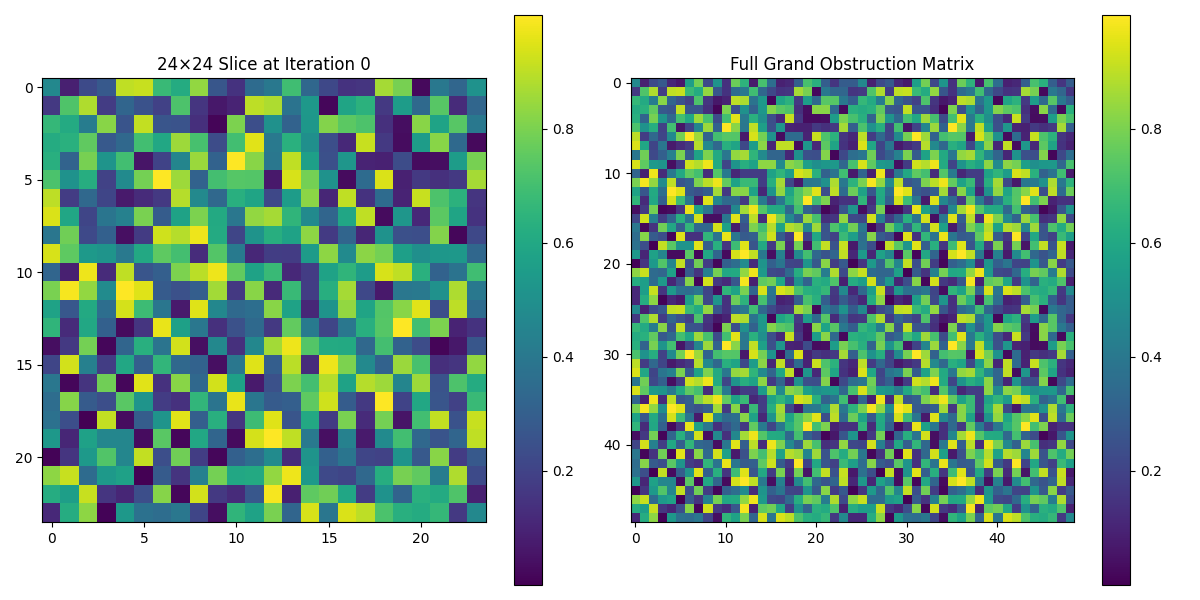
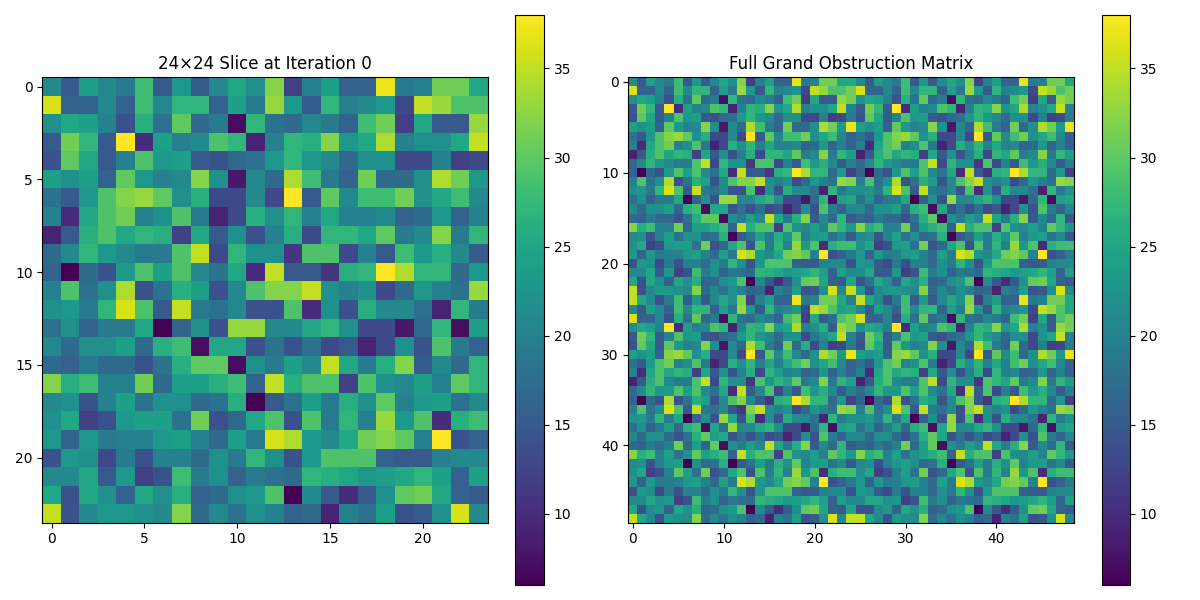
Discrete index vals

diff --git a/obstruction_and_relic_matrix.py b/obstruction_and_relic_matrix.py
@@ -6,18 +6,24 @@ grand_obstruction_matrix_size = 24 + (500 // map_iteration_period) # check if //
 obstruction_direction = 1 # Range {-1,1}, with 1 meaning the little matrix moves northeast, and -1 meaning it moves southwest
 
 class SymmetricMatrix:
-  def __init__(self, size):
+  def __init__(self, size, node_info_size):
     self.size = size
-    self.data = np.zeros((size, size))
+    self.node_info_size = node_info_size
+    self.data = np.zeros((size, size), dtype=object)
+    
+    for i in range(size):
+      for j in range(size):
+        self.data[i, j] = np.zeros(self.node_info_size)
+
     
   def get_entangled_index(self, i, j):
     return self.size - j - 1, self.size - i - 1
   
-  def set_index_value(self, index, value):
+  def set_index_value(self, index, discrete_values):
     i, j = index
-    self.data[i, j] = value
+    self.data[i, j] = np.array(discrete_values)
     anti_i, anti_j = self.get_entangled_index(i, j)
-    self.data[anti_i, anti_j] = value
+    self.data[anti_i, anti_j] = np.array(discrete_values)
   
   def get_index_value(self, index):
     return self.data[index]
@@ -25,11 +31,18 @@ class SymmetricMatrix:
 
 ###
 
+class RelicMatrix(SymmetricMatrix):
+  def __init__(self):
+    super().__init__(size=24, node_info_size=1)
 
 class GrandObstructionMatrix():
-  def __init__(self, size):
+  def __init__(self, size, node_info_size=5):
     self.size = size
-    self.data = np.zeros((size, size))
+    self.node_info_size = node_info_size
+    self.data = np.zeros((size, size), dtype=object)
+    for i in range(size):
+      for j in range(size):
+        self.data[i, j] = np.zeros(self.node_info_size)  
 
   def get_entangled_iteration_index(self, iteration_i, iteration_j):
     return 24 - iteration_j - 1, 24 - iteration_i - 1
@@ -49,11 +62,11 @@ class GrandObstructionMatrix():
     
     return list_of_indices
     
-  def safe_update(self, i, j, value):
-      if 0 <= i < self.size and 0 <= j < self.size:
-          self.data[i, j] = value
+  def safe_update(self, i, j, discrete_values):
+    if 0 <= i < self.size and 0 <= j < self.size:
+      self.data[i, j] = np.array(discrete_values)
 
-  def set_index_value(self, map_iteration_period, time_iteration, iteration_index, value):
+  def set_index_value(self, map_iteration_period, time_iteration, iteration_index, discrete_values):
     obstruction_movement_step = time_iteration // map_iteration_period  # integer division
     iteration_i, iteration_j = iteration_index
 
@@ -61,38 +74,34 @@ class GrandObstructionMatrix():
     entangled_tile_indices = self.get_entangled_tiles_iteration_index(iteration_i, iteration_j)
 
     if obstruction_direction == 1:
-        # Primary tile update with modulo
-        target_i = (self.size - 24 - obstruction_movement_step + iteration_i) % self.size
-        target_j = (obstruction_movement_step + iteration_j) % self.size
-        self.safe_update(target_i, target_j, value)
+      target_i = (self.size - 24 - obstruction_movement_step + iteration_i) % self.size
+      target_j = (obstruction_movement_step + iteration_j) % self.size
+      self.safe_update(target_i, target_j, discrete_values)
+      
+      target_i = (self.size - 24 - obstruction_movement_step + anti_iteration_i) % self.size
+      target_j = (obstruction_movement_step + anti_iteration_j) % self.size
+      self.safe_update(target_i, target_j, discrete_values)
         
-        # Update the symmetric partner of the primary tile
-        target_i = (self.size - 24 - obstruction_movement_step + anti_iteration_i) % self.size
-        target_j = (obstruction_movement_step + anti_iteration_j) % self.size
-        self.safe_update(target_i, target_j, value)
-        
-        # Update each of the entangled tiles
-        for tile_i, tile_j in entangled_tile_indices:
-            tile_anti_i, tile_anti_j = self.get_entangled_iteration_index(tile_i, tile_j)
-            self.safe_update((self.size - 24 - obstruction_movement_step + tile_i) % self.size,
-                             (obstruction_movement_step + tile_j) % self.size, value)
-            self.safe_update((self.size - 24 - obstruction_movement_step + tile_anti_i) % self.size,
-                             (obstruction_movement_step + tile_anti_j) % self.size, value)
+      for tile_i, tile_j in entangled_tile_indices:
+        tile_anti_i, tile_anti_j = self.get_entangled_iteration_index(tile_i, tile_j)
+        self.safe_update((self.size - 24 - obstruction_movement_step + tile_i) % self.size,
+                          (obstruction_movement_step + tile_j) % self.size, discrete_values)
+        self.safe_update((self.size - 24 - obstruction_movement_step + tile_anti_i) % self.size,
+                          (obstruction_movement_step + tile_anti_j) % self.size, discrete_values)
     else:
-        # Similar logic for obstruction_direction == -1, applying modulo to both row and col.
-        self.safe_update((obstruction_movement_step + iteration_i) % self.size,
-                         (self.size - 24 - obstruction_movement_step + iteration_j) % self.size, value)
-        self.safe_update((obstruction_movement_step + anti_iteration_i) % self.size,
-                         (self.size - 24 - obstruction_movement_step + anti_iteration_j) % self.size, value)
+      self.safe_update((obstruction_movement_step + iteration_i) % self.size,
+                        (self.size - 24 - obstruction_movement_step + iteration_j) % self.size, discrete_values)
+      self.safe_update((obstruction_movement_step + anti_iteration_i) % self.size,
+                        (self.size - 24 - obstruction_movement_step + anti_iteration_j) % self.size, discrete_values)
         
-        for tile_i, tile_j in entangled_tile_indices:
-            tile_anti_i, tile_anti_j = self.get_entangled_iteration_index(tile_i, tile_j)
-            self.safe_update((obstruction_movement_step + tile_i) % self.size,
-                             (self.size - 24 - obstruction_movement_step + tile_j) % self.size, value)
-            self.safe_update((obstruction_movement_step + tile_anti_i) % self.size,
-                             (self.size - 24 - obstruction_movement_step + tile_anti_j) % self.size, value)
-
-
+      for tile_i, tile_j in entangled_tile_indices:
+        tile_anti_i, tile_anti_j = self.get_entangled_iteration_index(tile_i, tile_j)
+        self.safe_update((obstruction_movement_step + tile_i) % self.size,
+                          (self.size - 24 - obstruction_movement_step + tile_j) % self.size, discrete_values)
+        self.safe_update((obstruction_movement_step + tile_anti_i) % self.size,
+                          (self.size - 24 - obstruction_movement_step + tile_anti_j) % self.size, discrete_values)
+    
+  
   def get_index_value(self, index):
       i, j = index
       
@@ -124,14 +133,18 @@ grand_obstruction_matrix = GrandObstructionMatrix(grand_obstruction_matrix_size)
 for time_iteration in range(0, 100, 5):  # Simulating 20 steps
     for i in range(24):  # Simulate a 24x24 section
         for j in range(24):
-            value = np.random.rand()  # Random value for demonstration
-            grand_obstruction_matrix.set_index_value(map_iteration_period, time_iteration, (i, j), value)
+            # Generate random discrete values
+            discrete_values = np.random.randint(0, 10, size=grand_obstruction_matrix.node_info_size)  # Random integers for discrete values
+            grand_obstruction_matrix.set_index_value(map_iteration_period, time_iteration, (i, j), discrete_values)
 
-# Extract the 24×24 slice of the obstruction matrix at iteration 95
-obstruction_matrix = grand_obstruction_matrix.get_obstruction_matrix_iteration(20, 0)
+# Extract the 24×24 slice of the obstruction matrix at iteration 0 (start of the simulation)
+obstruction_matrix = grand_obstruction_matrix.get_obstruction_matrix_iteration(map_iteration_period, 0)
 
-# Extract the full grand obstruction matrix
-full_matrix = grand_obstruction_matrix.data  # The entire matrix
+# Convert the matrix to a numeric form for visualization (sum of the discrete values for each element)
+numeric_obstruction_matrix = np.array([[np.sum(grand_obstruction_matrix.get_index_value((i, j))) for j in range(24)] for i in range(24)])
+
+# Extract the full grand obstruction matrix (convert similarly)
+full_matrix = np.array([[np.sum(grand_obstruction_matrix.get_index_value((i, j))) for j in range(grand_obstruction_matrix.size)] for i in range(grand_obstruction_matrix.size)])
 
 # Set up side-by-side plots
 fig, axes = plt.subplots(1, 2, figsize=(12, 6))
@@ -140,7 +153,7 @@ fig, axes = plt.subplots(1, 2, figsize=(12, 6))
 vmin, vmax = np.min(full_matrix), np.max(full_matrix)
 
 # Plot the 24x24 slice
-im1 = axes[0].imshow(obstruction_matrix, cmap="viridis", interpolation="nearest", vmin=vmin, vmax=vmax)
+im1 = axes[0].imshow(numeric_obstruction_matrix, cmap="viridis", interpolation="nearest", vmin=vmin, vmax=vmax)
 axes[0].set_title("24×24 Slice at Iteration 0")
 fig.colorbar(im1, ax=axes[0])
 
@@ -153,4 +166,5 @@ fig.colorbar(im2, ax=axes[1])
 plt.tight_layout()
 plt.savefig("obstruction_matrix_comparison.png")
 plt.show()
+
 
